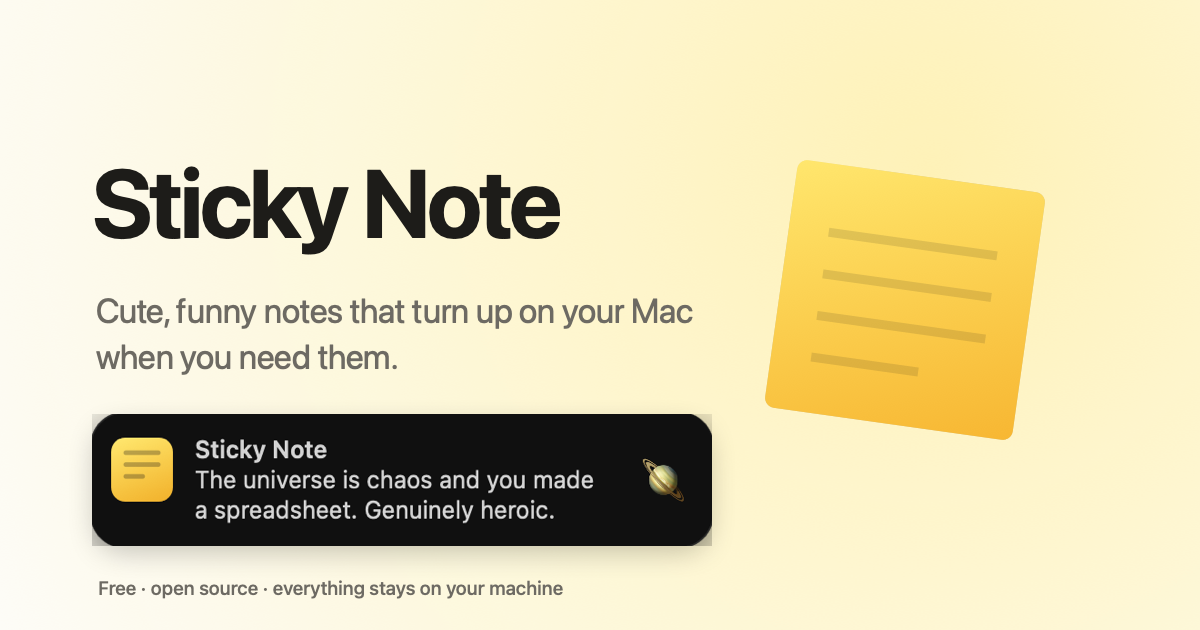
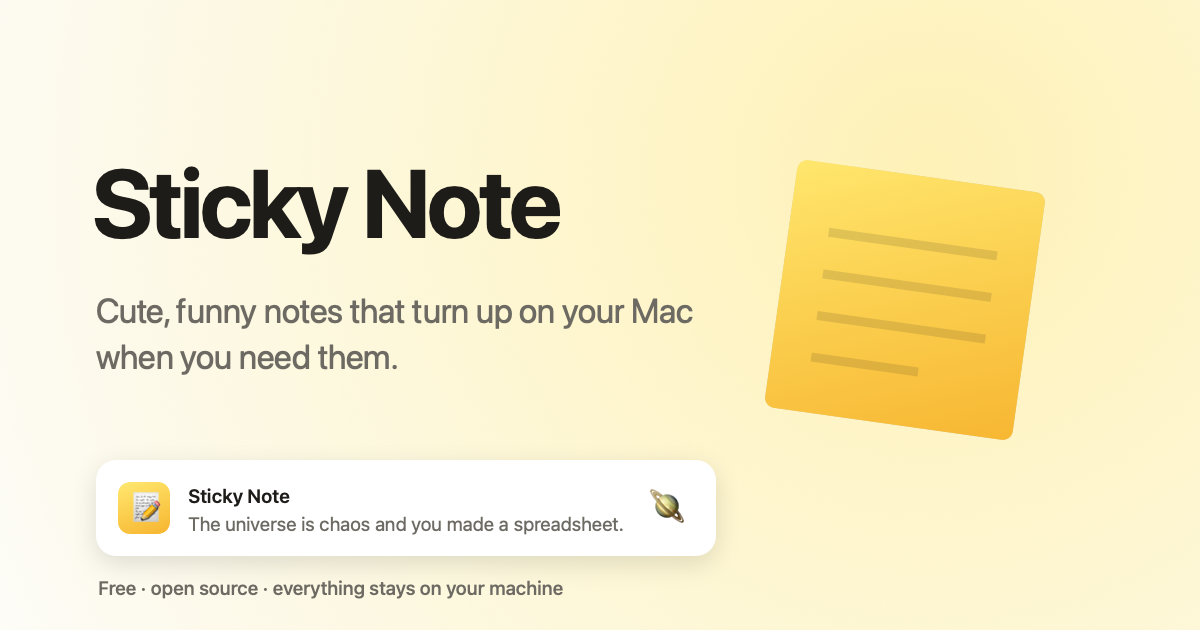
Put the drawn notification back in the hero and the link preview
Real captures were more honest but worse to look at: a macOS banner is grey
on grey, and against the warm paper it reads as a dull box rather than as the
thing the page is selling. The drawn card keeps the proportions and the type
while carrying the palette, and it can rotate through actual notes, which a
screenshot cannot.

The settings window stays a real capture. A window full of controls is worth
showing exactly as it is, and it does not fight the background the way a
notification does.

Changed region(s): [[0.0617, 0.6333, 0.6167, 0.9048]]

diff --git a/docs/index.html b/docs/index.html
@@ -163,28 +163,62 @@ h1 {
 
 .install-note a { color: inherit; }
 
-/* ---------- screenshots ---------- */
+/* ---------- notification demo ---------- */
 
 .stage {
-  margin: 60px 0 0;
+  margin: 64px 0 0;
   display: flex;
   justify-content: center;
 }
 
-/* Cropped to the window itself, with the macOS shadow discarded: a captured
-   shadow cropped part way through its fade reads as a grey box on the light
-   background. The radii below match the real corners so the shadow follows
-   them instead of cutting square. */
+/* Drawn rather than screenshotted. A real capture of a macOS banner is grey
+   on grey, and against the warm paper it reads as a dull box; this keeps the
+   proportions and the type but lets the note carry the palette. */
+.notification {
+  width: 100%;
+  max-width: 420px;
+  display: flex;
+  gap: 13px;
+  align-items: flex-start;
+  padding: 14px 15px;
+  border-radius: 18px;
+  background: rgba(255,255,255,.82);
+  backdrop-filter: saturate(180%) blur(24px);
+  -webkit-backdrop-filter: saturate(180%) blur(24px);
+  border: 1px solid rgba(0,0,0,.06);
+  box-shadow: 0 12px 40px rgba(29,28,25,.18);
+  transition: opacity .45s ease, transform .45s ease;
+}
+
+.notification.fading { opacity: 0; transform: translateY(-6px); }
+
+.app-icon {
+  width: 40px;
+  height: 40px;
+  flex: 0 0 40px;
+  border-radius: 9px;
+  background: linear-gradient(160deg, #ffe66d, #f7b733);
+  display: grid;
+  place-items: center;
+  font-size: 21px;
+  box-shadow: inset 0 0 0 .5px rgba(0,0,0,.08);
+}
+
+.n-body { flex: 1; min-width: 0; }
+.n-head { display: flex; justify-content: space-between; align-items: baseline; gap: 8px; }
+.n-title { font-size: 13.5px; font-weight: 650; letter-spacing: -.01em; }
+.n-time { font-size: 12px; color: var(--muted); flex: none; }
+.n-text { font-size: 13.5px; line-height: 1.4; margin-top: 1px; }
+.n-badge { font-size: 26px; align-self: center; flex: none; }
+
+/* The settings window, which is a real capture: cropped to the window with
+   the macOS shadow discarded, since a shadow cropped part way through its
+   fade reads as a grey box. The radius matches the real corners so the
+   shadow below follows them instead of cutting square. */
 .shot {
   max-width: 100%;
   height: auto;
   display: block;
-}
-
-.note-shot {
-  width: 470px;
-  border-radius: 21px;
-  box-shadow: 0 14px 44px rgba(29,28,25,.20), 0 2px 8px rgba(29,28,25,.10);
 }
 
 .window-shot {
@@ -278,22 +312,6 @@ h2 {
   .pack { grid-template-columns: 1fr auto; }
   .pack-desc { grid-column: 1 / -1; }
 }
-
-/* a note on rotation, to show the range without faking a notification */
-
-.sampler {
-  display: flex;
-  align-items: center;
-  gap: 16px;
-  margin-top: 26px;
-  padding: 20px 24px;
-  border-left: 3px solid var(--note-deep);
-  transition: opacity .4s ease;
-}
-
-.sampler.fading { opacity: 0; }
-.sampler p { margin: 0; font-size: 18px; font-style: italic; letter-spacing: -.01em; }
-.sampler-badge { font-size: 24px; flex: none; }
 
 /* code sample */
 
@@ -421,9 +439,19 @@ footer a:hover { border-bottom-color: var(--ink); }
     </p>
 
     <div class="stage">
-      <img src="note-light.png" alt="A macOS notification reading: The universe is chaos and you made a spreadsheet. Genuinely heroic." width="682" height="140" class="shot note-shot">
+      <div class="notification" id="note">
+        <div class="app-icon">📝</div>
+        <div class="n-body">
+          <div class="n-head">
+            <span class="n-title">Sticky Note</span>
+            <span class="n-time">now</span>
+          </div>
+          <div class="n-text" id="note-text">You are a temporarily assembled pile of atoms doing calculus. That's already showing off.</div>
+        </div>
+        <div class="n-badge" id="note-badge">✨</div>
+      </div>
     </div>
-    <p class="stage-caption">An actual note, caught in the corner of an actual screen.</p>
+    <p class="stage-caption">Real notes from the <b>funny</b> pack, on rotation.</p>
   </div>
 </header>
 
@@ -460,10 +488,6 @@ footer a:hover { border-bottom-color: var(--ink); }
       </div>
     </div>
 
-    <div class="sampler">
-      <span class="sampler-badge" id="sampler-badge">🪐</span>
-      <p id="sampler">The universe is chaos and you made a spreadsheet. Genuinely heroic.</p>
-    </div>
   </div>
 </section>
 
@@ -634,22 +658,23 @@ stickynote hooks install</pre>
     ["Being tired is not the same as being behind.", "🌙"]
   ];
 
-  var sampler = document.getElementById('sampler');
-  var samplerBadge = document.getElementById('sampler-badge');
+  var text = document.getElementById('note-text');
+  var badge = document.getElementById('note-badge');
+  var card = document.getElementById('note');
   var index = 0;
 
-  // Respect a stated preference for less motion; the first note reads fine
-  // on its own as a single example.
+  // Respect a stated preference for less motion; the notes still read fine
+  // as a single static example.
   var still = window.matchMedia('(prefers-reduced-motion: reduce)');
-  if (sampler && !still.matches) {
+  if (!still.matches) {
     setInterval(function () {
-      sampler.parentNode.classList.add('fading');
+      card.classList.add('fading');
       setTimeout(function () {
         index = (index + 1) % notes.length;
-        sampler.textContent = notes[index][0];
-        samplerBadge.textContent = notes[index][1];
-        sampler.parentNode.classList.remove('fading');
-      }, 400);
+        text.textContent = notes[index][0];
+        badge.textContent = notes[index][1];
+        card.classList.remove('fading');
+      }, 450);
     }, 4200);
   }
 

diff --git a/docs/make-og.swift b/docs/make-og.swift
@@ -101,34 +101,32 @@ draw("Cute, funny notes that turn up on your Mac", at: NSPoint(x: 96, y: 300),
 draw("when you need them.", at: NSPoint(x: 96, y: 254),
      size: 34, weight: .regular, color: muted, tracking: -0.4)
 
-// The real notification, screenshotted, rather than an imitation of one: this
-// card is the first thing anyone sees of the product. The dark capture, even
-// though the site itself is light -- the light one is grey on cream, and at
-// the size a feed renders this it disappears.
-let bannerPath = "docs/note-dark.png"
-let bannerRect = NSRect(x: 92, y: 84, width: 620, height: 132)
+// A small notification, so the thing being offered is visible at a glance.
+// Drawn rather than screenshotted, for the same reason as on the page: a real
+// macOS banner is grey on grey and sinks into the warm background.
+let cardRect = NSRect(x: 96, y: 74, width: 620, height: 96)
 
-// The shadow is cast by a rounded rect drawn underneath rather than by the
-// image itself: shadowing a bitmap traces its bounding box, which leaves a
-// grey rectangle poking out around the rounded corners. Save and restore the
-// graphics state to remove it afterwards -- a fresh NSShadow is not "no
-// shadow", it defaults to a third-opacity black one.
+// Save and restore around the shadow: a fresh NSShadow is not "no shadow",
+// it defaults to a third-opacity black one, which would then be cast by
+// everything drawn afterwards.
 NSGraphicsContext.saveGraphicsState()
-let bannerShadow = NSShadow()
-bannerShadow.shadowColor = NSColor.black.withAlphaComponent(0.22)
-bannerShadow.shadowBlurRadius = 28
-bannerShadow.shadowOffset = NSSize(width: 0, height: -9)
-bannerShadow.set()
-NSColor.black.setFill()
-rounded(bannerRect.insetBy(dx: 3, dy: 3), 27).fill()
+let cardShadow = NSShadow()
+cardShadow.shadowColor = NSColor.black.withAlphaComponent(0.12)
+cardShadow.shadowBlurRadius = 26
+cardShadow.shadowOffset = NSSize(width: 0, height: -8)
+cardShadow.set()
+NSColor.white.setFill()
+rounded(cardRect, 20).fill()
 NSGraphicsContext.restoreGraphicsState()
 
-if let banner = NSImage(contentsOfFile: bannerPath) {
-    banner.draw(in: bannerRect, from: .zero, operation: .sourceOver, fraction: 1.0)
-} else {
-    FileHandle.standardError.write("missing \(bannerPath)\n".data(using: .utf8)!)
-    exit(1)
-}
+let iconRect = NSRect(x: 118, y: 96, width: 52, height: 52)
+NSGradient(starting: noteYellow, ending: noteAmber)?.draw(in: rounded(iconRect, 12), angle: -70)
+draw("📝", at: NSPoint(x: 129, y: 106), size: 30, weight: .regular, color: ink)
+
+draw("Sticky Note", at: NSPoint(x: 188, y: 122), size: 19, weight: .semibold, color: ink)
+draw("The universe is chaos and you made a spreadsheet.", at: NSPoint(x: 188, y: 94),
+     size: 19, weight: .regular, color: muted)
+draw("🪐", at: NSPoint(x: 648, y: 104), size: 34, weight: .regular, color: ink)
 
 draw("Free · open source · everything stays on your machine",
      at: NSPoint(x: 98, y: 30), size: 19, weight: .medium, color: muted)
